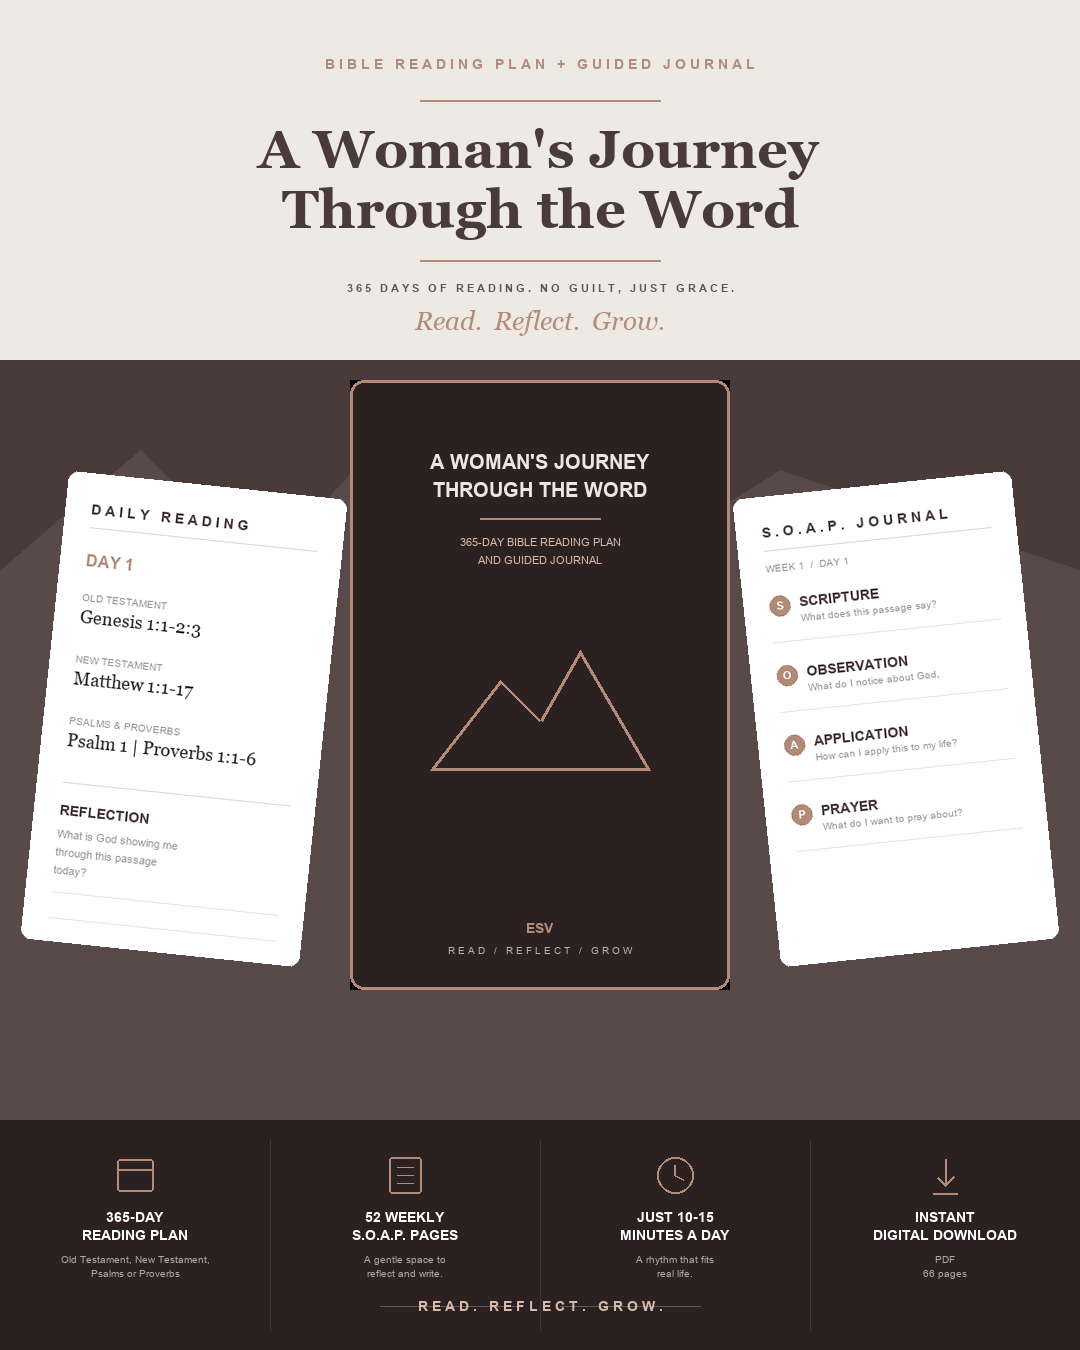
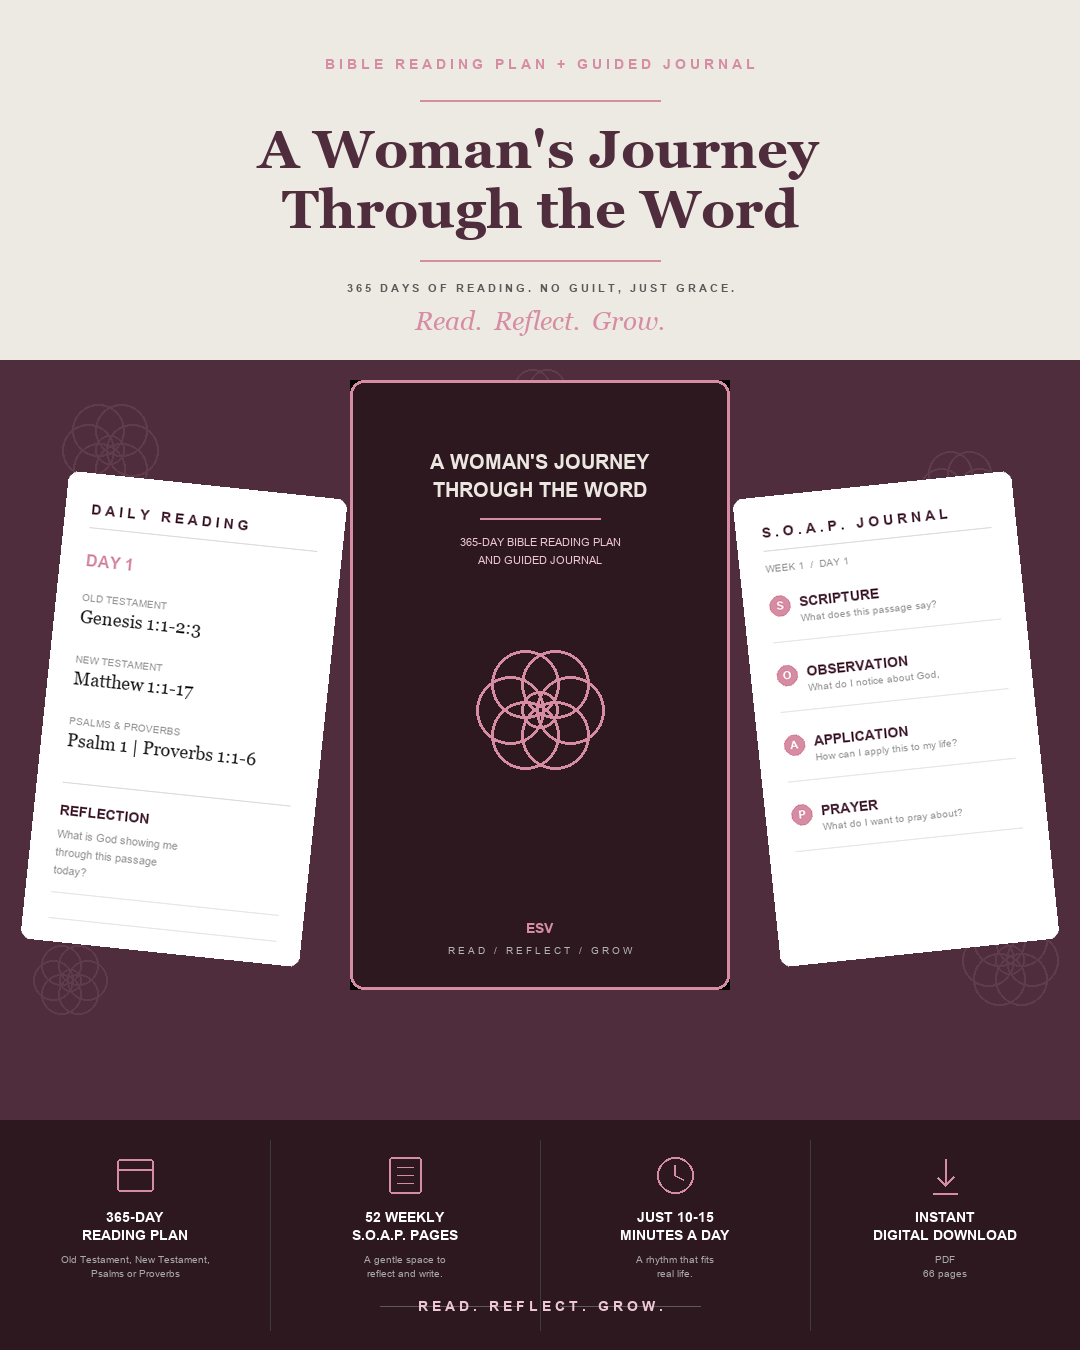
Update women's editions to lighter pink palette with flower motif
Replaces the dusty-rose/mountain look with a lighter pink and a
flower-of-life glyph (instead of the mountain) across both the ad
posters and the actual PDF covers for the English and Spanish
women's editions, per feedback that it should feel more feminine.

diff --git a/scripts/build_flat_poster.py b/scripts/build_flat_poster.py
@@ -44,6 +44,19 @@ def rounded_card(size, radius, fill, outline=None, outline_w=0):
     return img, d
 
 
+def draw_flower(draw, cx, cy, r_petal, d_offset, color, width=3, petals=6):
+    import math
+    for i in range(petals):
+        angle = math.radians(i * (360 / petals))
+        px = cx + d_offset * math.cos(angle)
+        py = cy + d_offset * math.sin(angle)
+        draw.ellipse([px - r_petal, py - r_petal, px + r_petal, py + r_petal],
+                     outline=color, width=width)
+    r_center = r_petal * 0.55
+    draw.ellipse([cx - r_center, cy - r_center, cx + r_center, cy + r_center],
+                 outline=color, width=width)
+
+
 VARIANTS = {
     "english-men": dict(
         dark=(31, 42, 56), dark2=(17, 24, 33), gold=(140, 106, 63), gold_light=(196, 168, 122),
@@ -81,7 +94,8 @@ VARIANTS = {
         bottom_tagline="READ. REFLECT. GROW.",
     ),
     "english-women": dict(
-        dark=(74, 59, 59), dark2=(43, 33, 33), gold=(180, 138, 120), gold_light=(214, 186, 172),
+        dark=(79, 45, 61), dark2=(46, 24, 32), gold=(214, 140, 163), gold_light=(237, 199, 212),
+        motif="flower",
         tag="BIBLE READING PLAN + GUIDED JOURNAL",
         headline=["A Woman's Journey", "Through the Word"],
         subhead="365 DAYS OF READING. NO GUILT, JUST GRACE.",
@@ -151,7 +165,8 @@ VARIANTS = {
         bottom_tagline="LEE. REFLEXIONA. CRECE.",
     ),
     "spanish-women": dict(
-        dark=(74, 59, 59), dark2=(43, 33, 33), gold=(180, 138, 120), gold_light=(214, 186, 172),
+        dark=(79, 45, 61), dark2=(46, 24, 32), gold=(214, 140, 163), gold_light=(237, 199, 212),
+        motif="flower",
         tag="PLAN DE LECTURA B\u00cdBLICA + DIARIO GUIADO",
         headline=["El Viaje de una Mujer", "por la Palabra"],
         subhead="365 D\u00cdAS DE LECTURA. SIN CULPA, CON GRACIA.",
@@ -208,9 +223,17 @@ def build(name, cfg):
     d.rectangle([0, mid_top, W, mid_bottom], fill=DARK)
 
     mtn_color = tuple(min(255, c + 15) for c in DARK)
-    d.polygon([(0, mid_top + 210), (140, mid_top + 90), (260, mid_top + 210),
-               (420, mid_top + 40), (620, mid_top + 210), (780, mid_top + 110),
-               (W, mid_top + 210), (W, mid_bottom), (0, mid_bottom)], fill=mtn_color)
+    motif = cfg.get("motif", "mountain")
+    if motif == "flower":
+        for fx, fy, rp, do in [
+            (110, mid_top + 90, 26, 22), (960, mid_top + 130, 22, 19),
+            (70, 980, 20, 17), (1010, 960, 26, 22), (540, mid_top + 40, 18, 15),
+        ]:
+            draw_flower(d, fx, fy, rp, do, mtn_color, width=2)
+    else:
+        d.polygon([(0, mid_top + 210), (140, mid_top + 90), (260, mid_top + 210),
+                   (420, mid_top + 40), (620, mid_top + 210), (780, mid_top + 110),
+                   (W, mid_top + 210), (W, mid_bottom), (0, mid_bottom)], fill=mtn_color)
 
     # ---- Left card: Daily Reading ----
     lc_w, lc_h = 280, 470
@@ -273,8 +296,11 @@ def build(name, cfg):
     center_text(bd, bc_w / 2, 174, cfg["book_sub"][1], arial_11, GOLD_LIGHT)
 
     mx, my = bc_w / 2, 330
-    bd.polygon([(mx - 110, my + 60), (mx - 40, my - 30), (mx, my + 10),
-                (mx + 40, my - 60), (mx + 110, my + 60)], outline=GOLD, width=3)
+    if motif == "flower":
+        draw_flower(bd, mx, my, 34, 30, GOLD, width=3)
+    else:
+        bd.polygon([(mx - 110, my + 60), (mx - 40, my - 30), (mx, my + 10),
+                    (mx + 40, my - 60), (mx + 110, my + 60)], outline=GOLD, width=3)
 
     center_text(bd, bc_w / 2, bc_h - 70, cfg["translation"], arial_bd_14, GOLD)
     center_text(bd, bc_w / 2, bc_h - 46, spaced(cfg["book_bottom"]), arial_10, (180, 180, 180))

diff --git a/scripts/build_planner.py b/scripts/build_planner.py
@@ -33,6 +33,34 @@ class MountainGlyph(Flowable):
         path.lineTo(cx + 95, 2)
         c.drawPath(path, stroke=1, fill=0)
 
+
+class FlowerGlyph(Flowable):
+    def __init__(self, width, height, color):
+        Flowable.__init__(self)
+        self.width = width
+        self.height = height
+        self.color = color
+        self.hAlign = "CENTER"
+
+    def wrap(self, availWidth, availHeight):
+        return (self.width, self.height)
+
+    def draw(self):
+        import math
+        c = self.canv
+        c.setStrokeColor(self.color)
+        c.setLineWidth(1.6)
+        cx, cy = self.width / 2, self.height / 2
+        r_petal = min(self.width, self.height) * 0.30
+        d_offset = r_petal * 0.85
+        for i in range(6):
+            angle = math.radians(i * 60)
+            px = cx + d_offset * math.cos(angle)
+            py = cy + d_offset * math.sin(angle)
+            c.ellipse(px - r_petal, py - r_petal, px + r_petal, py + r_petal, stroke=1, fill=0)
+        r_center = r_petal * 0.55
+        c.ellipse(cx - r_center, cy - r_center, cx + r_center, cy + r_center, stroke=1, fill=0)
+
 PRODUCT_DIR = r"C:\Users\julia\Desktop\4-13\product"
 
 GENDERS = {
@@ -42,9 +70,9 @@ GENDERS = {
         "light": colors.HexColor("#EDEAE3"),
     },
     "women": {
-        "accent": colors.HexColor("#B48A78"),
-        "dark": colors.HexColor("#4A3B3B"),
-        "light": colors.HexColor("#F5EDE8"),
+        "accent": colors.HexColor("#D68CA3"),
+        "dark": colors.HexColor("#4F2D3D"),
+        "light": colors.HexColor("#F7EDF1"),
     },
 }
 
@@ -230,7 +258,7 @@ def build_styles(colorset):
     return styles
 
 
-def cover_flowables(title, lang, colorset, styles):
+def cover_flowables(title, lang, colorset, styles, gender_key):
     title_light = ParagraphStyle(
         "TitleLight", parent=styles["CoverTitle"], textColor=colors.HexColor("#F2EFE9"),
     )
@@ -248,7 +276,10 @@ def cover_flowables(title, lang, colorset, styles):
     story.append(Paragraph(lang["subtitle"], styles["CoverSubtitle"]))
     story.append(HRFlowable(width="55%", thickness=1.2, color=colorset["accent"], spaceBefore=16, hAlign="CENTER"))
     story.append(Spacer(1, 0.55 * inch))
-    story.append(MountainGlyph(220, 78, colorset["accent"]))
+    if gender_key == "women":
+        story.append(FlowerGlyph(140, 100, colorset["accent"]))
+    else:
+        story.append(MountainGlyph(220, 78, colorset["accent"]))
     story.append(Spacer(1, 0.55 * inch))
     story.append(Paragraph(lang["tagline"], tagline_on_dark))
     story.append(Paragraph(lang["translation_note"], note_on_dark))
@@ -362,7 +393,7 @@ def build(lang_key, gender_key):
     )
 
     story = []
-    story += cover_flowables(title, lang, colorset, styles)
+    story += cover_flowables(title, lang, colorset, styles, gender_key)
     story += welcome_flowables(lang, welcome_text, styles)
     story += plan_table_flowables(lang, colorset, styles, rows)
     story += weekly_pages_flowables(lang, colorset, styles)
